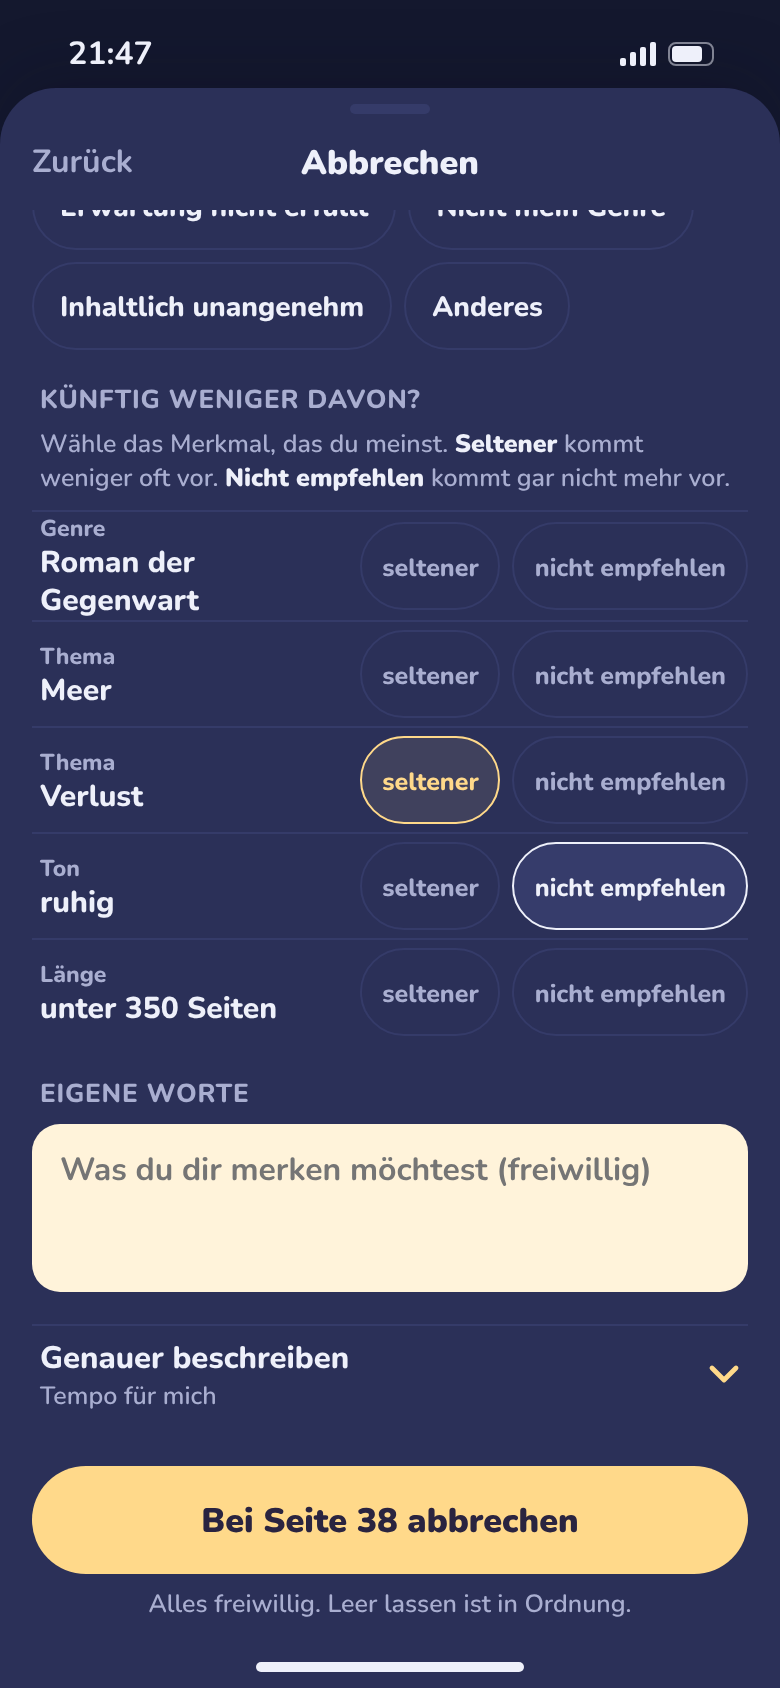
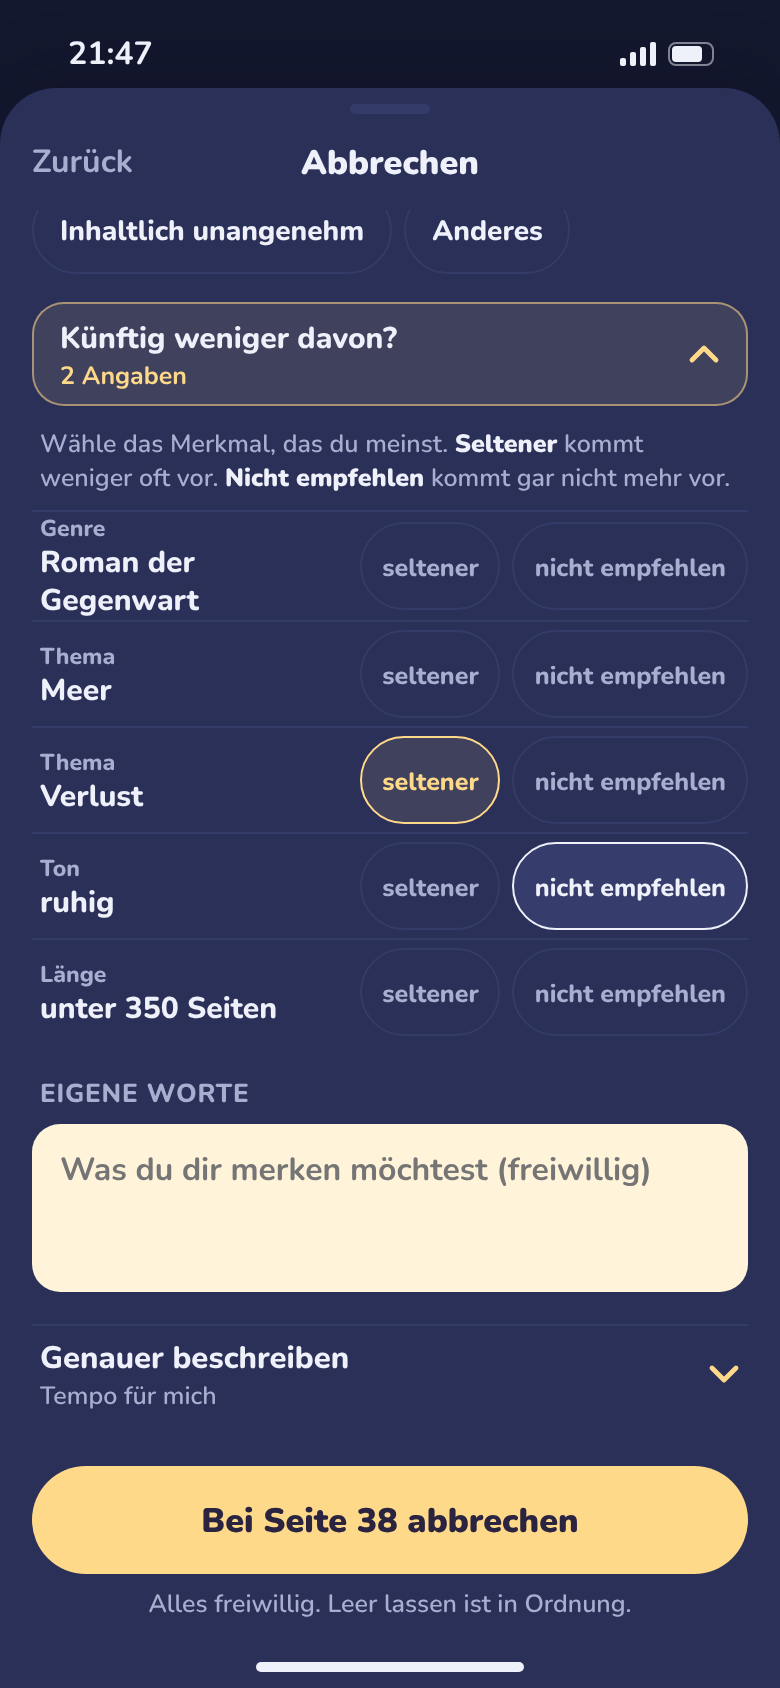
Bewertungsbogen: gefiel mir / gefiel mir nicht, Überschrift angepasst, Weniger-davon zugeklappt
Claude-Session: https://claude.ai/code/session_01XFBEjrJEUrXQYaFeZnVBdK

Changed region(s): [[0.0308, 0.1232, 0.5538, 0.2464], [0.5538, 0.1232, 0.7077, 0.1848], [0.8923, 0.1848, 0.9231, 0.2156]]

diff --git a/prototyp/designer/3-charakter/LichtAn.dc.html b/prototyp/designer/3-charakter/LichtAn.dc.html
@@ -564,13 +564,13 @@ input[type=search]::-webkit-search-cancel-button{display:none}
 </div>
 
 <sc-if value="{{rv.isRead}}" hint-placeholder-val="{{ true }}">
-<h3 style="margin: 14px 4px 4px 4px; font-size: 13px; font-weight: 800; color: var(--mute); letter-spacing: .03em">WAS HAT FUNKTIONIERT, WAS HAT GESTÖRT?</h3>
+<h3 style="margin: 14px 4px 4px 4px; font-size: 13px; font-weight: 800; color: var(--mute); letter-spacing: .03em">WAS HAT DIR GEFALLEN, WAS NICHT?</h3>
 <div role="list">
 <sc-for list="{{rv.aspects}}" as="a" hint-placeholder-count="5">
 <div role="listitem" style="display: flex; align-items: center; gap: 6px; min-height: 50px; border-top: 1px solid var(--line)">
 <span style="flex: 1; font-size: 15.5px; font-weight: 800; padding-left: 4px">{{a.label}}</span>
-<button type="button" aria-pressed="{{a.likePressed}}" aria-label="{{a.likeAria}}" onClick="{{a.like}}" style="{{a.likeStyle}}">mochte ich</button>
-<button type="button" aria-pressed="{{a.dislikePressed}}" aria-label="{{a.dislikeAria}}" onClick="{{a.dislike}}" style="{{a.dislikeStyle}}">störte mich</button>
+<button type="button" aria-pressed="{{a.likePressed}}" aria-label="{{a.likeAria}}" onClick="{{a.like}}" style="{{a.likeStyle}}">gefiel mir</button>
+<button type="button" aria-pressed="{{a.dislikePressed}}" aria-label="{{a.dislikeAria}}" onClick="{{a.dislike}}" style="{{a.dislikeStyle}}">gefiel mir nicht</button>
 </div>
 </sc-for>
 </div>
@@ -589,7 +589,12 @@ input[type=search]::-webkit-search-cancel-button{display:none}
 </sc-if>
 
 <sc-if value="{{rv.avoidHighlight}}" hint-placeholder-val="{{ false }}">
-<h3 style="margin: 16px 4px 4px 4px; font-size: 13px; font-weight: 800; color: var(--mute); letter-spacing: .03em">KÜNFTIG WENIGER DAVON?</h3>
+<button type="button" aria-expanded="{{rv.avoidExpanded}}" onClick="{{rv.toggleAvoid}}" style="margin-top: 14px; width: 100%; min-height: 52px; display: flex; align-items: center; justify-content: space-between; gap: 10px; border: none; border-radius: 16px; background: var(--accBg); box-shadow: inset 0 0 0 1px var(--accLine); padding: 0 14px; cursor: pointer; text-align: left; color: var(--ink)">
+<span style="display: flex; flex-direction: column"><span style="font-size: 15px; font-weight: 800">Künftig weniger davon?</span><span style="font-size: 12.5px; font-weight: 700; color: var(--acc)">{{rv.avoidHint}}</span></span>
+<svg width="16" height="10" viewBox="0 0 16 10" aria-hidden="true" style="{{rv.avoidChevron}}"><path d="M2 2l6 6 6-6" fill="none" style="stroke: var(--acc)" stroke-width="2.4" stroke-linecap="round" stroke-linejoin="round"></path></svg>
+</button>
+<sc-if value="{{rv.avoidOpen}}" hint-placeholder-val="{{ false }}">
+<div style="height: 10px"></div>
 <p style="margin: 0 4px 8px 4px; font-size: 12.5px; line-height: 17px; font-weight: 600; color: var(--mute)">Wähle das Merkmal, das du meinst. <b style="color: var(--ink)">Seltener</b> kommt weniger oft vor. <b style="color: var(--ink)">Nicht empfehlen</b> kommt gar nicht mehr vor.</p>
 <div role="list">
 <sc-for list="{{rv.avoid}}" as="a" hint-placeholder-count="4">
@@ -600,6 +605,7 @@ input[type=search]::-webkit-search-cancel-button{display:none}
 </div>
 </sc-for>
 </div>
+</sc-if>
 </sc-if>
 <h3 style="margin: 16px 4px 6px 4px; font-size: 13px; font-weight: 800; color: var(--mute); letter-spacing: .03em">{{rv.textLabel}}</h3>
 <textarea aria-label="{{rv.textLabel}}" onChange="{{rv.setText}}" placeholder="{{rv.textHint}}" style="width: 100%; box-sizing: border-box; height: 84px; border: none; border-radius: 14px; background: #FFF3DA; color: #2A2440; padding: 12px 14px; font-family: 'Nunito', sans-serif; font-size: 16px; line-height: 22px; font-weight: 700; resize: none" value="{{rv.text}}"></textarea>
@@ -796,7 +802,7 @@ class Component extends DCLogic {
       paused: [{ id: 'nacht', reasons: ['Gerade nicht die Stimmung'], note: '', when: 'September 2026' }, { id: 'garten', reasons: [], note: '', when: 'August 2026' }],
       swap: null, swapPick: null,
       dropped: [{ id: 'fluss', when: 'Mai 2026' }],
-      finished: [], rate: null, rd: blankRating(), moreOpen: false,
+      finished: [], rate: null, rd: blankRating(), moreOpen: false, avoidOpen: false,
       ratings: {
         uhr: { stars: 5, asp: { Sprache: 'like', Figuren: 'like', Handlung: 'like', Atmosphäre: 'like' }, reasons: [], text: '', tempoMe: 'passend', again: 'Ja', avoid: [] },
         fluss: { stars: 2, asp: {}, reasons: ['Tempo', 'Zu lang'], text: 'Schöne Sätze, aber nach 80 Seiten ist noch nichts passiert.', tempoMe: 'zu langsam', again: 'weiß nicht', avoid: [] }
@@ -929,8 +935,8 @@ class Component extends DCLogic {
         if (!rt) return [];
         var out = [], likes = [], dis = [];
         Object.keys(rt.asp).forEach(function (k) { if (rt.asp[k] === 'like') likes.push(k); else if (rt.asp[k] === 'dislike') dis.push(k); });
-        if (likes.length) out.push({ k: 'Mochte ich', v: likes.join(', ') });
-        if (dis.length) out.push({ k: 'Störte mich', v: dis.join(', ') });
+        if (likes.length) out.push({ k: 'Gefiel mir', v: likes.join(', ') });
+        if (dis.length) out.push({ k: 'Gefiel mir nicht', v: dis.join(', ') });
         if (rt.reasons.length) out.push({ k: 'Woran es lag', v: rt.reasons.join(', ') });
         if (rt.tempoMe) out.push({ k: 'Tempo für mich', v: rt.tempoMe });
         if (rt.again) out.push({ k: 'Mehr davon?', v: rt.again });
@@ -994,7 +1000,7 @@ class Component extends DCLogic {
     var sheetBook = lib[s.book] || LIB.salz;
     var finish = function (id, pagesOverride) {
       var pg2 = Object.assign({}, pagesOverride || s.pages); pg2[id] = (lib[id] || {}).pages || pg2[id];
-      self.setState({ pages: pg2, active: act.filter(function (x) { return x !== id; }), finished: s.finished.concat([id]), sheet: 'rate', rate: { id: id, kind: 'read' }, rd: blankRating(), moreOpen: false, saved: 'Ausgelesen. Steht jetzt bei Gelesen.' });
+      self.setState({ pages: pg2, active: act.filter(function (x) { return x !== id; }), finished: s.finished.concat([id]), sheet: 'rate', rate: { id: id, kind: 'read' }, rd: blankRating(), moreOpen: false, avoidOpen: false, saved: 'Ausgelesen. Steht jetzt bei Gelesen.' });
     };
     var rv = (function () {
       if (!s.rate) return { stars: [], aspects: [], reasons: [], groups: [], isRead: false, isDrop: false };
@@ -1002,7 +1008,7 @@ class Component extends DCLogic {
       var bk = lib[R0.id] || BOOKS.filter(function (x) { return x.id === R0.id; })[0] || {};
       var upd = function (patch) { self.setState({ rd: Object.assign({}, rd, patch) }); };
       var pill = function (on) { return 'min-height: 44px; padding: 0 13px; border-radius: 22px; cursor: pointer; font-size: 14px; font-weight: 800; border: 1.5px solid ' + (on ? 'var(--acc)' : 'var(--line)') + '; background: ' + (on ? 'var(--accBg)' : 'transparent') + '; color: ' + (on ? 'var(--acc)' : 'var(--ink)'); };
-      var aspectBtn = function (on, bad) { return 'flex-shrink: 0; min-height: 44px; padding: 0 11px; border-radius: 22px; cursor: pointer; font-size: 13px; font-weight: 800; border: 1.5px solid ' + (on ? (bad ? 'var(--mute)' : 'var(--acc)') : 'var(--line)') + '; background: ' + (on ? (bad ? 'var(--field)' : 'var(--accBg)') : 'transparent') + '; color: ' + (on ? (bad ? 'var(--ink)' : 'var(--acc)') : 'var(--mute)'); };
+      var aspectBtn = function (on, bad) { return 'flex-shrink: 0; min-height: 44px; padding: 0 10px; border-radius: 22px; cursor: pointer; font-size: 12.5px; font-weight: 800; border: 1.5px solid ' + (on ? (bad ? 'var(--mute)' : 'var(--acc)') : 'var(--line)') + '; background: ' + (on ? (bad ? 'var(--field)' : 'var(--accBg)') : 'transparent') + '; color: ' + (on ? (bad ? 'var(--ink)' : 'var(--acc)') : 'var(--mute)'); };
       var tempoReason = isDrop && rd.reasons.indexOf('Tempo') >= 0;
       var highlight = isDrop || (rd.stars > 0 && rd.stars <= 2);
       var groupsVis = MORE_GROUPS.filter(function (g) { return !(g[0] === 'tempoMe' && tempoReason); });
@@ -1026,6 +1032,9 @@ class Component extends DCLogic {
           labelStyle: 'font-size: 11.5px; font-weight: 800; white-space: nowrap; color: ' + (rd.stars === i ? 'var(--acc)' : 'var(--mute)'),
           pick: function () { upd({ stars: rd.stars === i ? 0 : i }); } }; }),
         avoidHighlight: highlight, avoidInMore: !highlight,
+        avoidOpen: !!s.avoidOpen, avoidExpanded: s.avoidOpen ? 'true' : 'false', toggleAvoid: function () { self.setState({ avoidOpen: !s.avoidOpen }); },
+        avoidHint: avoidCount ? (avoidCount === 1 ? '1 Angabe' : avoidCount + ' Angaben') : 'Merkmal wählen',
+        avoidChevron: 'transition: transform .15s; transform: rotate(' + (s.avoidOpen ? 180 : 0) + 'deg)',
         avoid: featureValues(R0.id).map(function (fv) {
           var cur = rd.avoid.filter(function (x) { return x.dimension === fv.dimension && x.value_id === fv.value_id; })[0];
           var v = cur ? cur.action : '';
@@ -1042,7 +1051,7 @@ class Component extends DCLogic {
         aspects: (bk.sach ? ASPECTS_SACH : ASPECTS_ROMAN).map(function (a) {
           var v = rd.asp[a] || '';
           var set = function (val) { var m = Object.assign({}, rd.asp); if (m[a] === val) delete m[a]; else m[a] = val; upd({ asp: m }); };
-          return { label: a, likePressed: v === 'like' ? 'true' : 'false', dislikePressed: v === 'dislike' ? 'true' : 'false', likeAria: a + ': mochte ich', dislikeAria: a + ': störte mich',
+          return { label: a, likePressed: v === 'like' ? 'true' : 'false', dislikePressed: v === 'dislike' ? 'true' : 'false', likeAria: a + ': gefiel mir', dislikeAria: a + ': gefiel mir nicht',
             likeStyle: aspectBtn(v === 'like', false), dislikeStyle: aspectBtn(v === 'dislike', true), like: function () { set('like'); }, dislike: function () { set('dislike'); } };
         }),
         reasons: DROP_REASONS.map(function (r) { var on = rd.reasons.indexOf(r) >= 0; return { label: r, pressed: on ? 'true' : 'false', style: pill(on), toggle: function () { var x = rd.reasons.slice(); var k = x.indexOf(r); var p = {}; if (k >= 0) { x.splice(k, 1); if (r === 'Tempo') p.tempoMe = ''; } else x.push(r); p.reasons = x; upd(p); } }; }),
@@ -1112,9 +1121,9 @@ class Component extends DCLogic {
       volBackLabel: (vk === 'pausiert' || vk === 'abgebrochen' || vk === 'regale' || vk === 'verliehen' || vk === 'stats') ? 'Weitere Bände' : 'Bibliothek',
       volBack: function () { var sub = (vk === 'pausiert' || vk === 'abgebrochen' || vk === 'regale' || vk === 'verliehen' || vk === 'stats'); self.go(sub ? { screen: 'vol', vol: 'mehr', volNotice: '' } : { screen: 'home' }); },
       openPause: function () { self.setState({ sheet: 'pause', reasons: [], note: '' }); },
-      openDrop: function () { self.setState({ sheet: 'rate', rate: { id: b.id, kind: 'drop' }, rd: blankRating(), moreOpen: false }); },
+      openDrop: function () { self.setState({ sheet: 'rate', rate: { id: b.id, kind: 'drop' }, rd: blankRating(), moreOpen: false, avoidOpen: false }); },
       finishBook: function () { finish(b.id); },
-      editRating: function () { var cur = s.ratings[b.id] || (b.lights ? Object.assign(blankRating(), { stars: b.lights }) : blankRating()); var c = JSON.parse(JSON.stringify(cur)); if (!c.text && b.reading && b.vol === 'gelesen') c.text = b.reading; self.setState({ sheet: 'rate', rate: { id: b.id, kind: b.vol === 'abgebrochen' ? 'editDrop' : 'editRead' }, rd: c, moreOpen: false }); },
+      editRating: function () { var cur = s.ratings[b.id] || (b.lights ? Object.assign(blankRating(), { stars: b.lights }) : blankRating()); var c = JSON.parse(JSON.stringify(cur)); if (!c.text && b.reading && b.vol === 'gelesen') c.text = b.reading; self.setState({ sheet: 'rate', rate: { id: b.id, kind: b.vol === 'abgebrochen' ? 'editDrop' : 'editRead' }, rd: c, moreOpen: false, avoidOpen: false }); },
       resumeBook: function () { resumeOrAsk(b.id); },
       pauseChips: PAUSE_REASONS.map(chip), dropChips: DROP_REASONS.map(chip),
       sheetIntro: 'Das Lesebändchen bleibt auf Seite ' + (s.pages[s.book] || 0) + '. Ein Grund ist freiwillig.',

diff --git a/prototyp/designer/3-charakter/KONZEPT.md b/prototyp/designer/3-charakter/KONZEPT.md
@@ -266,3 +266,4 @@ Grundlage: ENTSCHEIDUNGSVORLAGE-USP3.md, Abschnitte 2 und 8. Screens in `screens
   - Gespeichert wird `{action: 'seltener'|'never', dimension, value_id, label, source_work_id, scope: 'global', explicit: true}`. Der Abbruchgrund „Thema“ erzeugt keinen Ausschluss.
   - Auf der Buchseite stehen die Einträge unter „Künftig weniger, für alle Empfehlungen“, z. B. „Seltener: Thema Meer“, jeweils mit „entfernen“.
   - Geprüft in screens5/10b–10f (wählen, speichern, sehen, entfernen) und 13–14 (Abbruch mit „Thema Verlust: seltener“ und „Ton ruhig: nicht empfehlen“).
+- **Wording und Platz (24.10.2026):** Die Aspekt-Knöpfe heißen „gefiel mir“ / „gefiel mir nicht“, auf der Buchseite „Gefiel mir“ / „Gefiel mir nicht“. Nichts gewählt heißt keine Aussage. „Künftig weniger davon?“ ist auch bei 1–2 Lichtern und beim Abbruch zugeklappt: eine dezent hervorgehobene Zeile mit „Merkmal wählen“ bzw. der Zahl der Angaben (screens5/10a, 13b).
